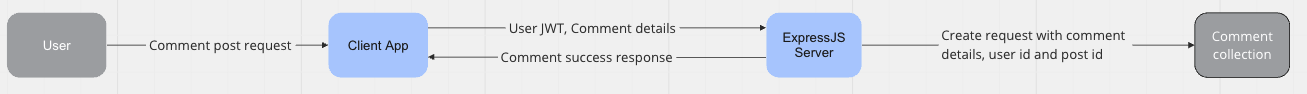
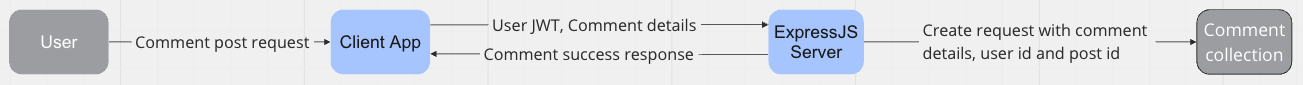
updated font size of dataflow diagrams

diff --git a/README.md b/README.md
@@ -19,7 +19,8 @@ According to estimates, one out of every three pets will go missing at some poin
 
 The purpose of PawsReunite is to help pet owners find their lost pets and to help people who have found lost pets find their owners. This is a valuable service because lost pets can be very difficult to find, and even if they are found, it can be difficult to track down their owners. This web application can help to bridge this gap by providing a central platform where pet owners and people who have found lost pets can connect.
 
-### Functionality/Feature
+____
+### Functionality/ Feature
 
 #### User Registration and Authentication: 
    
@@ -51,10 +52,12 @@ Users are able to find information about pet care on the platform. This informat
 
 The application runs a matching algorithm to connect lost pets with found pet based on similar characteristics, such as breed, colour, or lost/found location. Users will receive in-app and email notifications when a potential match is found.
 
+____
 ### Target Audience
 
 The target audience for PawsReunite is pet owners, people who have found lost pets, and animal shelters or rescue organizations. Pet owners are the primary users of this application, as they are the ones who are most likely to be looking for lost pets. People who have found lost pets are also potential users, as they may be looking for a way to reunite the pet with its owner. Animal shelters and rescue organizations can also use this app to help find homes for lost pets.
 
+____
 ### Tech Stack
 
 
